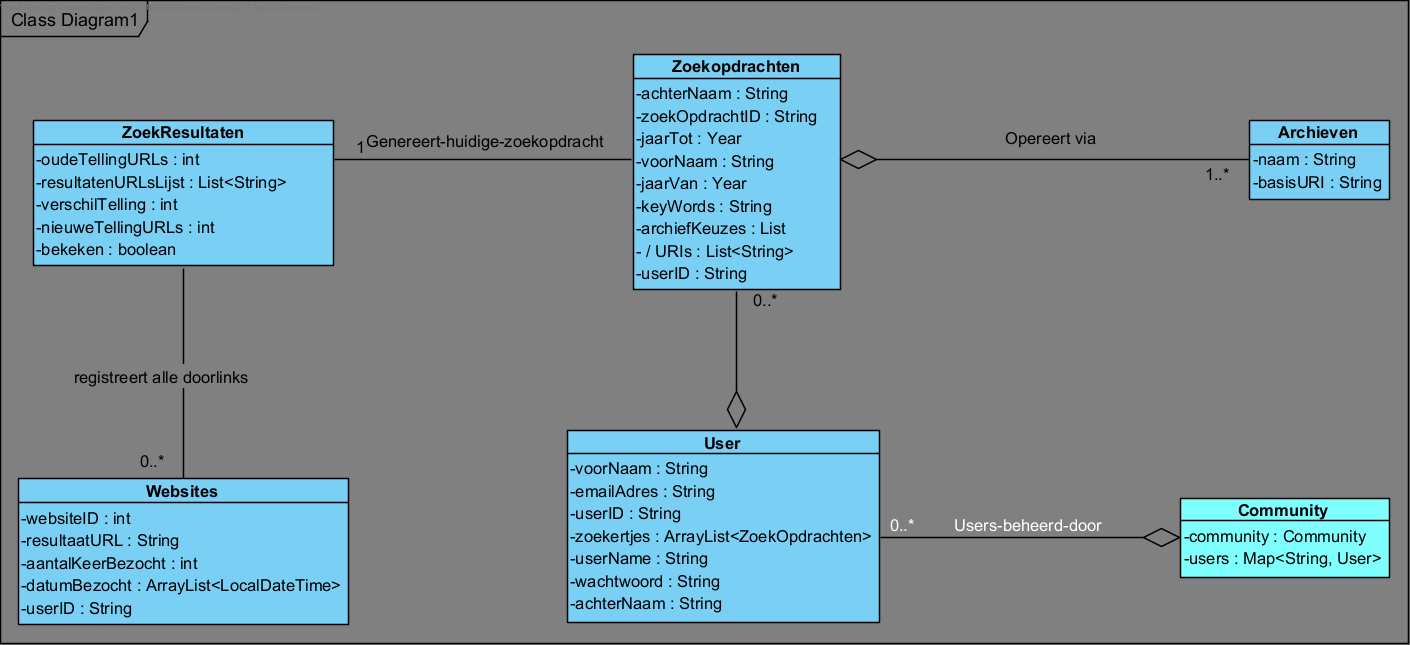
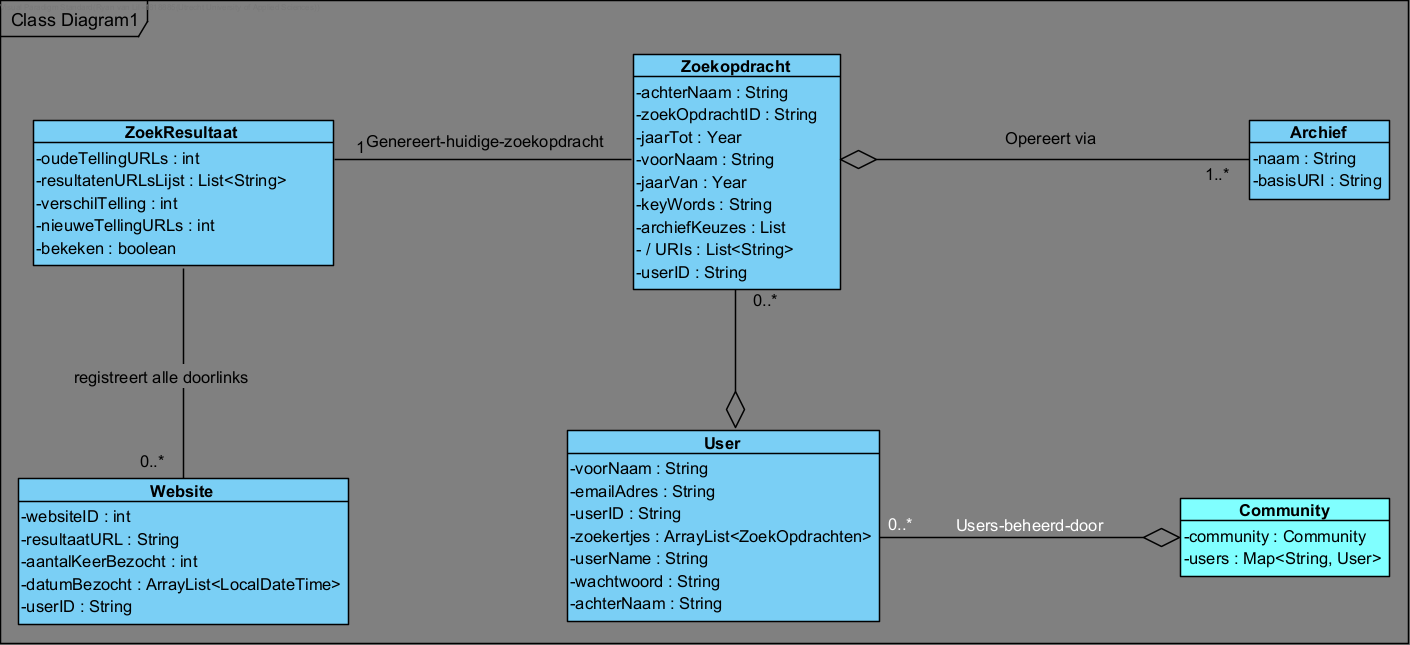
[ontwerp.md]Bijgeschaafd, kleine dingen verbeterd

diff --git a/src/main/archivetrawler/model/ZoekResultaat.java b/src/main/archivetrawler/model/ZoekResultaat.java
@@ -3,15 +3,15 @@ package main.archivetrawler.model;
 import java.util.List;
 import java.util.Objects;
 
-public class ZoekResultaten {
+public class ZoekResultaat {
     private List<String> resultatenURLsLijst;
     private boolean bekeken;
     private int oudeTellingURLs;
     private int nieuweTellingURLs;
     private int verschilTelling;
 
-    public ZoekResultaten(List<String> resultatenURLsLijst, boolean bekeken, int oudeTellingURLs, int nieuweTellingURLs,
-                          int verschilTelling) {
+    public ZoekResultaat(List<String> resultatenURLsLijst, boolean bekeken, int oudeTellingURLs, int nieuweTellingURLs,
+                         int verschilTelling) {
         this.resultatenURLsLijst = resultatenURLsLijst;
         this.bekeken = bekeken;
         this.oudeTellingURLs = oudeTellingURLs;
@@ -63,7 +63,7 @@ public class ZoekResultaten {
     public boolean equals(Object o) {
         if (this == o) return true;
         if (o == null || getClass() != o.getClass()) return false;
-        ZoekResultaten that = (ZoekResultaten) o;
+        ZoekResultaat that = (ZoekResultaat) o;
         return bekeken == that.bekeken && oudeTellingURLs == that.oudeTellingURLs && nieuweTellingURLs == that.nieuweTellingURLs && verschilTelling == that.verschilTelling && Objects.equals(resultatenURLsLijst,
                                                                                                                                                                                               that.resultatenURLsLijst);
     }

diff --git a/src/main/archivetrawler/model/Zoekopdracht.java b/src/main/archivetrawler/model/Zoekopdracht.java
@@ -3,7 +3,7 @@ package main.archivetrawler.model;
 import java.util.List;
 import java.util.Objects;
 
-public class Zoekopdrachten {
+public class Zoekopdracht {
     private List<Archieven> archiefKeuzes;
     private String keyWords;
     private String voorNaam;
@@ -13,8 +13,8 @@ public class Zoekopdrachten {
     private String zoekOpdrachtID;
     private String userID;
 
-    public Zoekopdrachten(List<Archieven> archiefKeuzes, String keyWords, String voorNaam, String achterNaam,
-                          int jaarVan, int jaarTot, String zoekOpdrachtID, String userID) {
+    public Zoekopdracht(List<Archieven> archiefKeuzes, String keyWords, String voorNaam, String achterNaam,
+                        int jaarVan, int jaarTot, String zoekOpdrachtID, String userID) {
         this.archiefKeuzes = archiefKeuzes;
         this.keyWords = keyWords;
         this.voorNaam = voorNaam;
@@ -93,7 +93,7 @@ public class Zoekopdrachten {
     public boolean equals(Object o) {
         if (this == o) return true;
         if (o == null || getClass() != o.getClass()) return false;
-        Zoekopdrachten that = (Zoekopdrachten) o;
+        Zoekopdracht that = (Zoekopdracht) o;
         return Objects.equals(archiefKeuzes,
                               that.archiefKeuzes) && Objects.equals(keyWords,
                                                                     that.keyWords) && Objects.equals(voorNaam,

diff --git a/test/main/ZoekopdrachtTest.java b/test/main/ZoekopdrachtTest.java
@@ -1,7 +1,7 @@
 package main;
 
 import main.archivetrawler.model.Archieven;
-import main.archivetrawler.model.Zoekopdrachten;
+import main.archivetrawler.model.Zoekopdracht;
 import org.junit.jupiter.api.BeforeEach;
 import org.junit.jupiter.api.Test;
 
@@ -10,13 +10,13 @@ import java.util.Arrays;
 
 import static org.junit.jupiter.api.Assertions.*;
 
-class ZoekopdrachtenTest {
+class ZoekopdrachtTest {
     Archieven archief1 = new Archieven("archief1", "www.archief.com/");
     ArrayList<Archieven> archievenlisty= new ArrayList<Archieven>(Arrays.asList(archief1));
-    Zoekopdrachten zoek1 = new Zoekopdrachten(archievenlisty, "", "", "", 1800, 1900, "", "1");
-    Zoekopdrachten zoek2 = new Zoekopdrachten(archievenlisty, "", "", "", 1800, 1900, "", "2");
-    Zoekopdrachten zoek3 = new Zoekopdrachten(archievenlisty, "", "", "", 1800, 1900, "", "3");
-    Zoekopdrachten zoek4 = new Zoekopdrachten(archievenlisty, "", "", "", 1800, 1900, "", "4");
+    Zoekopdracht zoek1 = new Zoekopdracht(archievenlisty, "", "", "", 1800, 1900, "", "1");
+    Zoekopdracht zoek2 = new Zoekopdracht(archievenlisty, "", "", "", 1800, 1900, "", "2");
+    Zoekopdracht zoek3 = new Zoekopdracht(archievenlisty, "", "", "", 1800, 1900, "", "3");
+    Zoekopdracht zoek4 = new Zoekopdracht(archievenlisty, "", "", "", 1800, 1900, "", "4");
 
     @BeforeEach
     void setUp() {

diff --git a/src/main/archivetrawler/model/User.java b/src/main/archivetrawler/model/User.java
@@ -12,7 +12,7 @@ public class User {
     private String wachtwoord;
     private String userID;
     private String role;
-    private ArrayList<Zoekopdrachten> zoekertjes;
+    private ArrayList<Zoekopdracht> zoekertjes;
 
 
     public User(String userName, String emailAdres, String voorNaam, String achterNaam, String wachtwoord,
@@ -70,11 +70,11 @@ public class User {
         this.wachtwoord = wachtwoord;
     }
 
-    public List<Zoekopdrachten> getZoekertjes() {
+    public List<Zoekopdracht> getZoekertjes() {
         return zoekertjes;
     }
 
-    public void setZoekertjes(ArrayList<Zoekopdrachten> zoekertjes) {
+    public void setZoekertjes(ArrayList<Zoekopdracht> zoekertjes) {
         this.zoekertjes = zoekertjes;
     }
 

diff --git a/test/main/WebsitesTest.java b/test/main/WebsitesTest.java
@@ -38,6 +38,9 @@ class WebsitesTest {
         assertEquals(1,websites1.getAantalKeerBezocht());
         websites1.websiteDoorgelinkt();
         assertEquals(2,websites1.getAantalKeerBezocht());
+        websites1.websiteDoorgelinkt();
+        websites1.websiteDoorgelinkt();
+        assertEquals(4,websites1.getAantalKeerBezocht());
     }
 
     @Test

diff --git a/DESIGN/Ontwerp.md b/DESIGN/Ontwerp.md
@@ -323,7 +323,8 @@ De wireframes bij de use cases.
 
 [//]: # (Daarnaast kent een domein model eventueel extra regels op het domein &#40;business rules&#41; die je niet goed in UML kan vertalen. Deze regels neem je hier puntsgewijs op.)
 
-- Per email-adres OF user-naam mag er maar 1 user zijn.
+### Business rules
+- Per email-adres EN user-naam mag er maar 1 user zijn.
 - De entiteit Websites zullen altijd gebruikersgebonden zijn. <br/>
 Er kunnen dus meerdere keren dezelfde link voorkomen, maar met andere gebruikers.
 - Als een website link wordt aangeklikt, moet de datum en tijd opgeslagen worden, en het aantal keer geklikt +1
